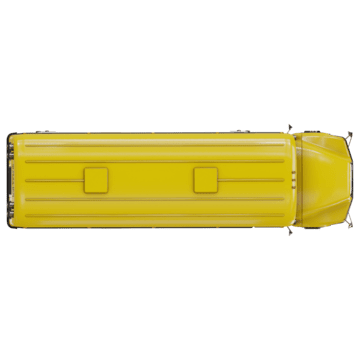
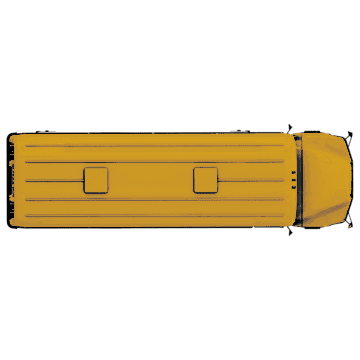
Refactor code structure for improved readability and maintainability

Changed region(s): [[0.0, 0.3361, 1.0, 0.6722]]

diff --git a/src/main.js b/src/main.js
@@ -49,19 +49,6 @@ const pegmanIcon = L.divIcon({
     popupAnchor: [0, -40]
 });
 
-// A reusable yellow bus icon function to perfectly match the rotating one!
-const staticYellowBusIcon = L.divIcon({
-    html: `
-      <div style="width: 60px; height: 60px; display: flex; align-items: center; justify-content: center;">
-        <img src="/bus-yellow.png" style="width: 50px; height: auto; filter: drop-shadow(2px 5px 4px rgba(0,0,0,0.4));">
-      </div>
-    `,
-    className: 'clear-icon',
-    iconSize: [60, 60],
-    iconAnchor: [30, 30],
-    popupAnchor: [0, -30]
-});
-
 // ==========================================
 // 4. THE DATA DICTIONARY
 // ==========================================
@@ -325,7 +312,7 @@ function processFirebaseData(data) {
         const busImage = L.divIcon({
             html: `
               <div style="width: 60px; height: 60px; display: flex; align-items: center; justify-content: center;">
-                <img id="live-bus-img" src="/bus-yellow.png" style="width: 50px; height: auto; transform: rotate(0deg); transition: transform 0.6s linear; filter: drop-shadow(2px 5px 4px rgba(0,0,0,0.4));">
+                <img id="live-bus-img" src="/bus-blue.png" style="width: 50px; height: auto; transform: rotate(0deg); transition: transform 0.6s linear; filter: drop-shadow(2px 5px 4px rgba(0,0,0,0.4));">
               </div>
             `,
             className: 'clear-icon',
@@ -660,10 +647,13 @@ document.getElementById('close-panel-btn').addEventListener('click', () => sideP
 map.on('click', () => sidePanel.classList.remove('open'));
 
 function updatePanelData() {
-    if (!liveBusMarker) return; 
-    let currentBusPos = liveBusMarker.getLatLng();
-
     const isCampus = currentPanelBusType === 'campus';
+    const activeMarker = isCampus ? liveBusMarker : seriBusMarker;
+
+    // Guard clause: if the bus hasn't spawned on the map yet, do nothing
+    if (!activeMarker) return; 
+    let currentBusPos = activeMarker.getLatLng();
+
     const activeSequence = isCampus ? routeSequence : seriRouteSequence;
     const activeIndex = isCampus ? currentTargetIndex : seriTargetIndex;
     
@@ -695,26 +685,27 @@ function updatePanelData() {
         
         const displayName = stopName.replace(" 2", "");
         const isNextStop = (i === 0);
-        const dotClass = (isNextStop && isCampus) ? "stop-dot next-stop" : "stop-dot";
+        
+        // Dynamic colors: Blue/Red for Campus, Amber for Seri Iskandar
+        const activeColor = isCampus ? '#f87171' : '#f59e0b';
+        const dotClass = isNextStop ? "stop-dot next-stop" : "stop-dot";
+        const dotStyle = (isNextStop && !isCampus) ? `background: ${activeColor}; box-shadow: 0 0 0 2px ${activeColor};` : "";
 
-        const nameDisplay = (isNextStop && isCampus) 
-            ? `${displayName} <span style="background:rgba(239, 68, 68, 0.2); color:#f87171; border: 1px solid rgba(239,68,68,0.3); font-size:10px; padding:2px 6px; border-radius:4px; margin-left:8px; font-weight:bold;">HEADING HERE</span>` 
+        const nameDisplay = isNextStop 
+            ? `${displayName} <span style="background:${isCampus ? 'rgba(239,68,68,0.2)' : 'rgba(245,158,11,0.2)'}; color:${activeColor}; border: 1px solid ${isCampus ? 'rgba(239,68,68,0.3)' : 'rgba(245,158,11,0.3)'}; font-size:10px; padding:2px 6px; border-radius:4px; margin-left:8px; font-weight:bold;">HEADING HERE</span>` 
             : displayName;
             
         let etaText = `ETA: ${m}m ${s}s`;
-        if (isNextStop && isCampus) etaText = `<span style="color:#f87171; font-weight:600;">Arriving in: ${m}m ${s}s</span>`;
-        if (!isCampus) etaText = `<span style="color:#94a3b8;">Status: Outbound</span>`;
-
-        const timeBadge = isCampus ? etaLabel : '--:--';
+        if (isNextStop) etaText = `<span style="color:${activeColor}; font-weight:600;">Arriving in: ${m}m ${s}s</span>`;
 
         listHTML += `
             <div class="route-stop-item">
-                <div class="${dotClass}"></div>
+                <div class="${dotClass}" style="${dotStyle}"></div>
                 <div class="stop-info">
                     <div class="stop-name">${nameDisplay}</div>
                     <div class="stop-eta">${etaText}</div>
                 </div>
-                <div class="stop-time-badge" style="${!isCampus ? 'color:#475569; border-color:#1e293b;' : ''}">${timeBadge}</div>
+                <div class="stop-time-badge">${etaLabel}</div>
             </div>
         `;
     }
@@ -727,12 +718,12 @@ function openLiveSchedulePanel(busType) {
     updatePanelData(); 
     
     if (panelUpdateInterval) clearInterval(panelUpdateInterval);
-    if (busType === 'campus') { 
-        panelUpdateInterval = setInterval(() => {
-            if (sidePanel.classList.contains('open')) updatePanelData();
-            else clearInterval(panelUpdateInterval); 
-        }, 1000);
-    }
+    
+    // Now tick the live countdown timer for BOTH buses!
+    panelUpdateInterval = setInterval(() => {
+        if (sidePanel.classList.contains('open')) updatePanelData();
+        else clearInterval(panelUpdateInterval); 
+    }, 1000);
 }
 
 // ==========================================